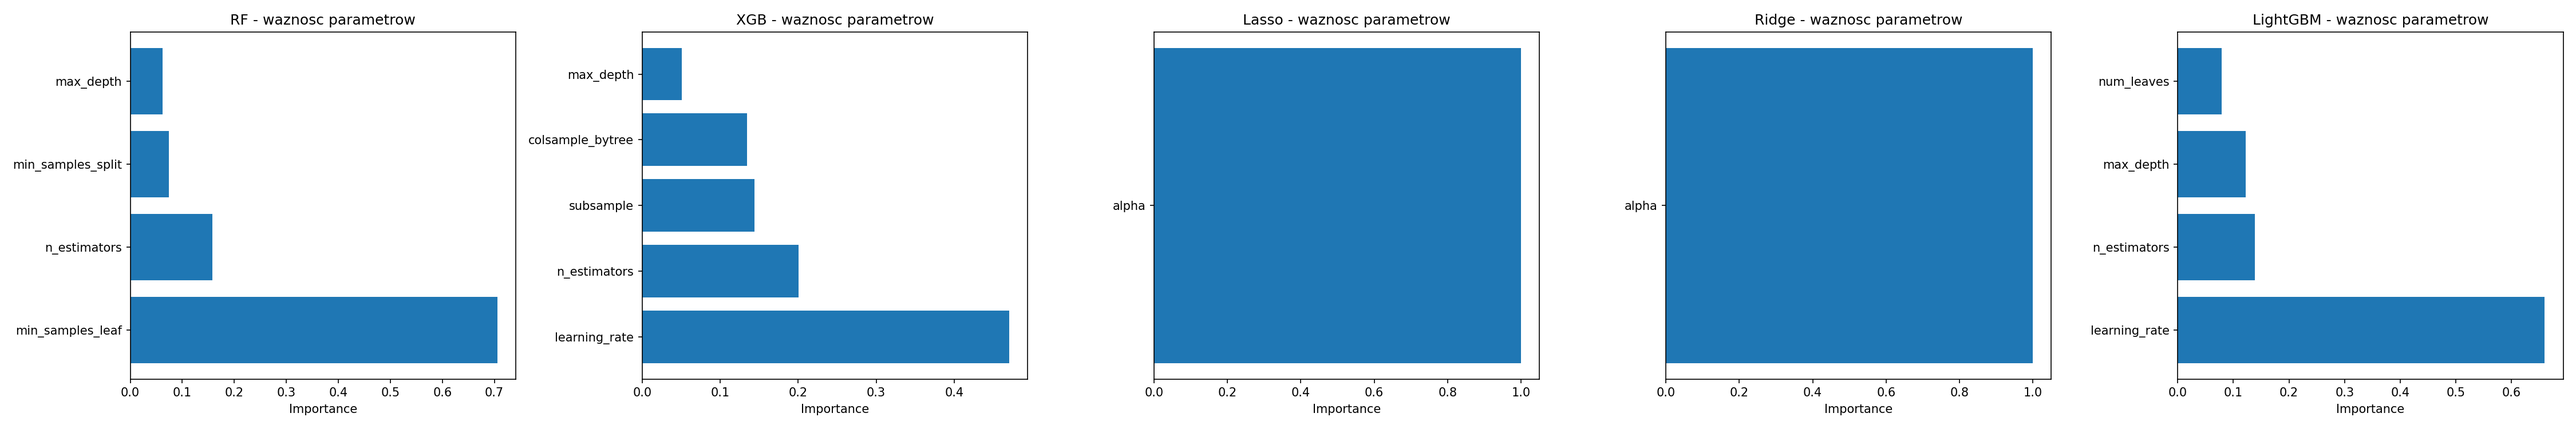
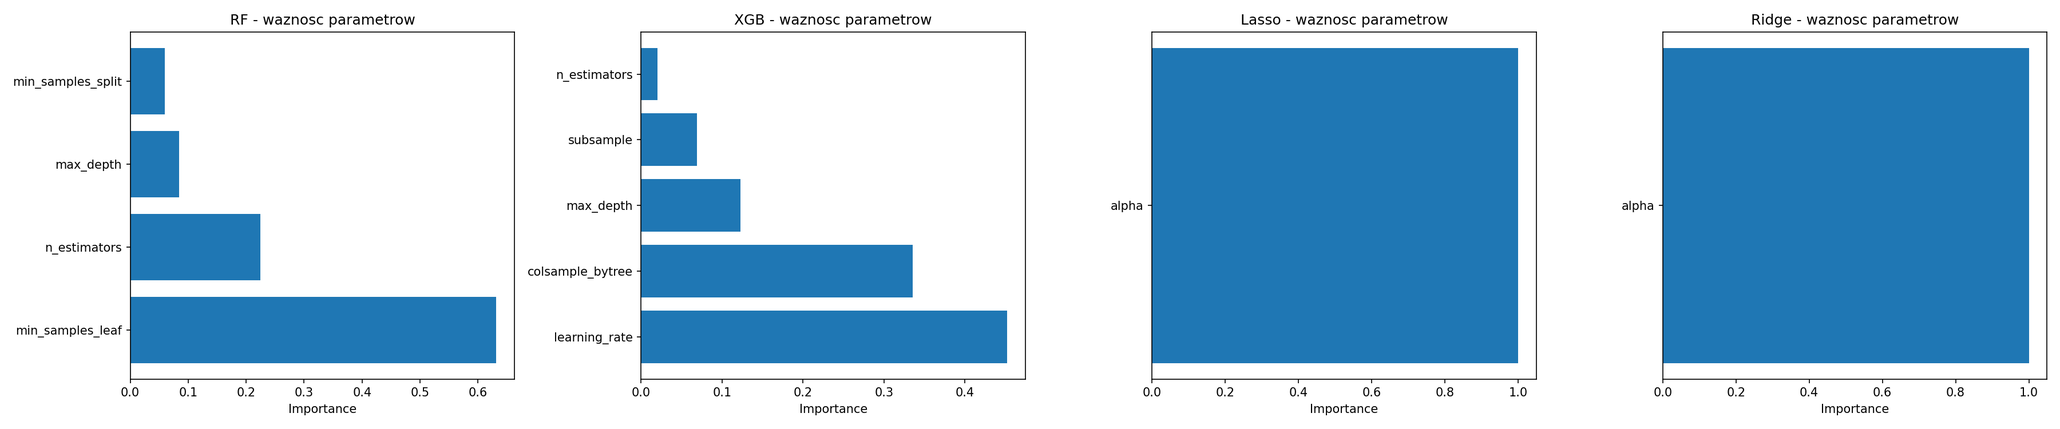
poprawki

diff --git a/users/apapas/src/modelling/optimization.py b/users/apapas/src/modelling/optimization.py
@@ -6,7 +6,6 @@ from sklearn.linear_model import Lasso, Ridge
 from sklearn.ensemble import RandomForestRegressor
 from sklearn.model_selection import cross_val_score, GridSearchCV
 from xgboost import XGBRegressor
-from lightgbm import LGBMRegressor
 import os
 
 from src.modelling.models import evaluate_model
@@ -96,23 +95,6 @@ def run_optimization(X_train, X_test, y_train, y_test, results_before, n_trials=
     print(f"Najlepsze parametry Ridge: {study_ridge.best_params}")
     print(f"R2 (CV): {study_ridge.best_value:.4f}")
 
-    # LightGBM
-    def objective_lgbm(trial):
-        params = {
-            "n_estimators":  trial.suggest_int("n_estimators", 50, 300),
-            "max_depth":     trial.suggest_int("max_depth", 3, 9),
-            "learning_rate": trial.suggest_float("learning_rate", 0.01, 0.3, log=True),
-            "num_leaves":    trial.suggest_int("num_leaves", 20, 100),
-        }
-        model = LGBMRegressor(random_state=42, verbosity=-1, **params)
-        return cross_val_score(model, X_train, y_train, cv=5, scoring="r2").mean()
-
-    print(f"\nOptymalizacja LightGBM ({n_trials} trials)...")
-    study_lgbm = optuna.create_study(direction="maximize")
-    study_lgbm.optimize(objective_lgbm, n_trials=n_trials)
-    print(f"Najlepsze parametry LightGBM: {study_lgbm.best_params}")
-    print(f"R2 (CV): {study_lgbm.best_value:.4f}")
-
     best_rf = RandomForestRegressor(random_state=42, n_jobs=-1, **study_rf.best_params)
     best_rf.fit(X_train, y_train)
 
@@ -125,9 +107,6 @@ def run_optimization(X_train, X_test, y_train, y_test, results_before, n_trials=
     best_ridge = Ridge(**study_ridge.best_params)
     best_ridge.fit(X_train, y_train)
 
-    best_lgbm = LGBMRegressor(random_state=42, verbosity=-1, **study_lgbm.best_params)
-    best_lgbm.fit(X_train, y_train)
-
     print("\nPo optymalizacji:")
     results_after = []
     result_rf_opt = evaluate_model("Random Forest (opt)", best_rf, X_test, y_test)
@@ -138,15 +117,13 @@ def run_optimization(X_train, X_test, y_train, y_test, results_before, n_trials=
     results_after.append(result_lasso_opt)
     result_ridge_opt = evaluate_model("Ridge (opt)", best_ridge, X_test, y_test)
     results_after.append(result_ridge_opt)
-    result_lgbm_opt = evaluate_model("LightGBM (opt)", best_lgbm, X_test, y_test)
-    results_after.append(result_lgbm_opt)
 
     # wykres przed vs po
-    opt_model_names = ["Random Forest", "XGBoost", "Lasso", "Ridge", "LightGBM"]
+    opt_model_names = ["Random Forest", "XGBoost", "Lasso", "Ridge"]
     r2_before = [r["R2"] for r in results_before if r["model"] in opt_model_names]
     r2_after = [r["R2"] for r in results_after]
 
-    x = np.arange(5)
+    x = np.arange(4)
     w = 0.3
     fig, ax = plt.subplots(figsize=(14, 6))
     ax.bar(x - w/2, r2_before, w, label="Przed", color="#4C72B0")
@@ -167,23 +144,21 @@ def run_optimization(X_train, X_test, y_train, y_test, results_before, n_trials=
     plt.close()
 
     # historia optymalizacji
-    fig, axes = plt.subplots(1, 5, figsize=(30, 5))
+    fig, axes = plt.subplots(1, 4, figsize=(24, 5))
     _plot_history(study_rf,    axes[0], "RF - historia optymalizacji")
     _plot_history(study_xgb,   axes[1], "XGB - historia optymalizacji")
     _plot_history(study_lasso, axes[2], "Lasso - historia optymalizacji")
     _plot_history(study_ridge, axes[3], "Ridge - historia optymalizacji")
-    _plot_history(study_lgbm,  axes[4], "LightGBM - historia optymalizacji")
     plt.tight_layout()
     plt.savefig("wyniki/optuna_historia.png", dpi=150)
     plt.close()
 
     # waznosc parametrow
-    fig, axes = plt.subplots(1, 5, figsize=(30, 5))
+    fig, axes = plt.subplots(1, 4, figsize=(24, 5))
     _plot_importances(study_rf,    axes[0], "RF - waznosc parametrow")
     _plot_importances(study_xgb,   axes[1], "XGB - waznosc parametrow")
     _plot_importances(study_lasso, axes[2], "Lasso - waznosc parametrow")
     _plot_importances(study_ridge, axes[3], "Ridge - waznosc parametrow")
-    _plot_importances(study_lgbm,  axes[4], "LightGBM - waznosc parametrow")
     plt.tight_layout()
     plt.savefig("wyniki/optuna_parametry.png", dpi=150)
     plt.close()
@@ -194,7 +169,6 @@ def run_optimization(X_train, X_test, y_train, y_test, results_before, n_trials=
         "XGBoost (opt)":       (best_xgb,   "XGBoost (optym)"),
         "Lasso (opt)":         (best_lasso, "Lasso (optym)"),
         "Ridge (opt)":         (best_ridge, "Ridge (optym)"),
-        "LightGBM (opt)":      (best_lgbm,  "LightGBM (optym)"),
     }
     best_model, best_name = best_name_map[best_result["model"]]
 
@@ -203,11 +177,10 @@ def run_optimization(X_train, X_test, y_train, y_test, results_before, n_trials=
         "XGBoost": best_xgb,
         "Lasso": best_lasso,
         "Ridge": best_ridge,
-        "LightGBM": best_lgbm,
     }
 
     print(f"\nNajlepszy model: {best_name}")
-    return best_model, best_name, results_after, study_rf, study_xgb, study_lasso, study_ridge, study_lgbm, models_opt
+    return best_model, best_name, results_after, study_rf, study_xgb, study_lasso, study_ridge, models_opt
 
 
 def run_gridsearch(X_train, X_test, y_train, y_test, results_optuna):
@@ -238,14 +211,6 @@ def run_gridsearch(X_train, X_test, y_train, y_test, results_optuna):
             Ridge(),
             {"alpha": [0.001, 0.01, 0.1, 1.0, 10.0, 100.0]},
         ),
-        "LightGBM": (
-            LGBMRegressor(random_state=42, verbosity=-1),
-            {
-                "n_estimators": [50, 100, 200],
-                "max_depth": [3, 5, 7],
-                "learning_rate": [0.05, 0.1, 0.2],
-            },
-        ),
     }
 
     results_gs = []
@@ -259,11 +224,11 @@ def run_gridsearch(X_train, X_test, y_train, y_test, results_optuna):
         n_fits = len(gs.cv_results_["mean_test_score"]) * 5
         print(f"  {name}: {n_fits} fits, best params: {gs.best_params_}")
 
-    model_names = ["Random Forest", "XGBoost", "Lasso", "Ridge", "LightGBM"]
+    model_names = ["Random Forest", "XGBoost", "Lasso", "Ridge"]
     r2_gs  = [r["R2"] for r in results_gs]
     r2_opt = [r["R2"] for r in results_optuna]
 
-    x = np.arange(5)
+    x = np.arange(4)
     w = 0.3
     fig, ax = plt.subplots(figsize=(14, 6))
     ax.bar(x - w/2, r2_opt, w, label="Optuna",      color="#4C72B0")

diff --git a/users/apapas/src/modelling/models.py b/users/apapas/src/modelling/models.py
@@ -4,7 +4,6 @@ import matplotlib.pyplot as plt
 from sklearn.linear_model import LinearRegression, Lasso, Ridge
 from sklearn.ensemble import RandomForestRegressor
 from xgboost import XGBRegressor
-from lightgbm import LGBMRegressor
 from sklearn.metrics import mean_absolute_error, mean_squared_error, r2_score
 import os
 
@@ -25,6 +24,7 @@ def plot_prediction_scatter(ax, y_test, pred, name, color):
     ax.set_xlabel("Wartosc rzeczywista (mln$)")
     ax.set_ylabel("Predykcja (mln$)")
     ax.set_title(name)
+    ax.tick_params(axis="x", rotation=45)
 
 
 def run_modelling(X_train, X_test, y_train, y_test):
@@ -56,20 +56,13 @@ def run_modelling(X_train, X_test, y_train, y_test):
     ridge.fit(X_train, y_train)
     result_ridge = evaluate_model("Ridge", ridge, X_test, y_test)
 
-    # 6) LightGBM
-    lgbm = LGBMRegressor(n_estimators=100, max_depth=5, learning_rate=0.1,
-                         random_state=42, verbosity=-1)
-    lgbm.fit(X_train, y_train)
-    result_lgbm = evaluate_model("LightGBM", lgbm, X_test, y_test)
-
-    results = [result_lr, result_lasso, result_rf, result_xgb, result_ridge, result_lgbm]
+    results = [result_lr, result_lasso, result_rf, result_xgb, result_ridge]
     predictions = {
         "Lin. Regression": result_lr["pred"],
         "Lasso":           result_lasso["pred"],
         "Random Forest":   result_rf["pred"],
         "XGBoost":         result_xgb["pred"],
         "Ridge":           result_ridge["pred"],
-        "LightGBM":        result_lgbm["pred"],
     }
 
     df_results = pd.DataFrame(results)
@@ -78,7 +71,7 @@ def run_modelling(X_train, X_test, y_train, y_test):
 
     # wykres porownawczy
     fig, axes = plt.subplots(1, 3, figsize=(15, 5))
-    colors = ["blue", "orange", "red", "green", "purple", "brown"]
+    colors = ["blue", "orange", "red", "green", "purple"]
 
     axes[0].bar(df_results["model"], df_results["R2"], color=colors)
     axes[0].set_title("R2 Score")
@@ -97,15 +90,14 @@ def run_modelling(X_train, X_test, y_train, y_test):
     plt.savefig("wyniki/porownanie_modeli.png", dpi=150)
     plt.close()
 
-    # predykcje vs rzeczywistosc (2x3)
-    fig, axes = plt.subplots(2, 3, figsize=(21, 10))
+    # predykcje vs rzeczywistosc (1x5)
+    fig, axes = plt.subplots(1, 5, figsize=(17, 5))
     plot_items = [
         ("Lin. Regression", result_lr["pred"],    "blue"),
         ("Lasso",           result_lasso["pred"],  "orange"),
         ("Random Forest",   result_rf["pred"],     "red"),
         ("XGBoost",         result_xgb["pred"],    "green"),
         ("Ridge",           result_ridge["pred"],  "purple"),
-        ("LightGBM",        result_lgbm["pred"],   "brown"),
     ]
     for ax, (name, pred, color) in zip(axes.flat, plot_items):
         plot_prediction_scatter(ax, y_test, pred, name, color)
@@ -125,6 +117,5 @@ def run_modelling(X_train, X_test, y_train, y_test):
         "Random Forest":   rf,
         "XGBoost":         xgb,
         "Ridge":           ridge,
-        "LightGBM":        lgbm,
     }
     return results, models, predictions
